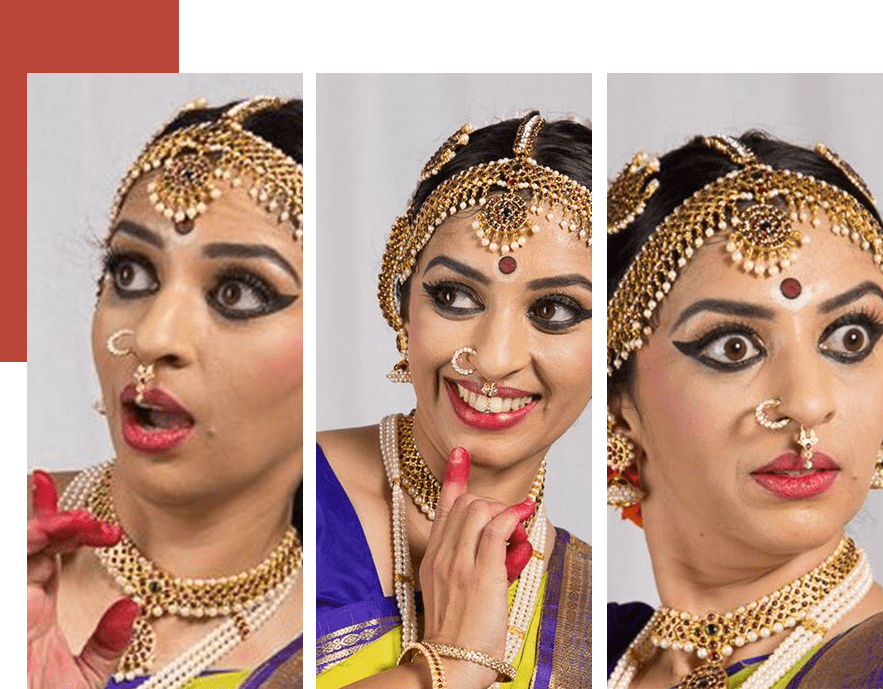
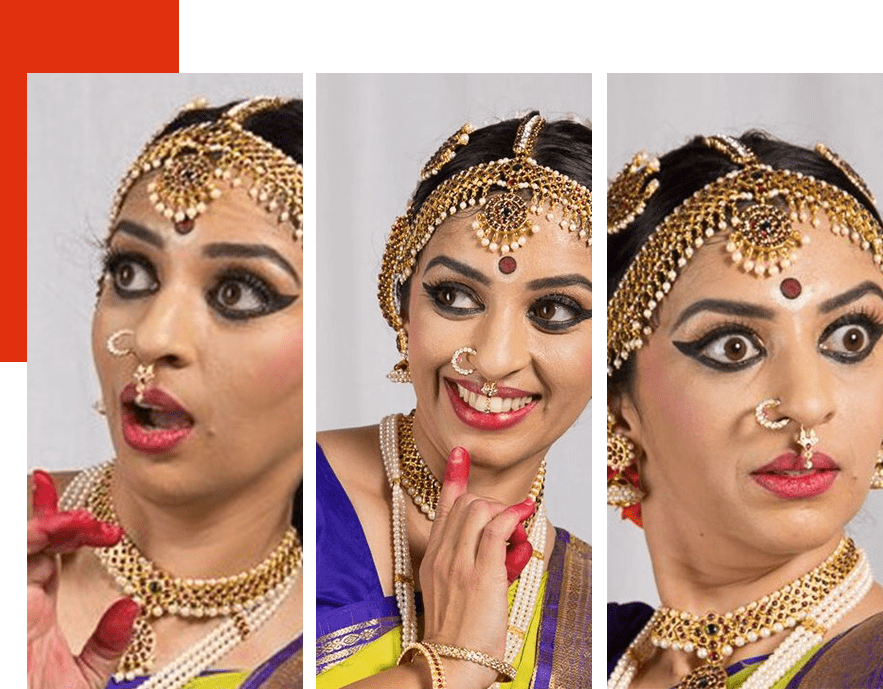
fix: update colors

diff --git a/assets/css/style.css b/assets/css/style.css
@@ -1,1 +1,1 @@
-html{line-height:1.15;-webkit-text-size-adjust:100%}body{margin:0}main{display:block}h1{font-size:2em;margin:0.67em 0}hr{box-sizing:content-box;height:0;overflow:visible}pre{font-family:monospace, monospace;font-size:1em}a{background-color:transparent}abbr[title]{border-bottom:none;text-decoration:underline;text-decoration:underline dotted}b,strong{font-weight:bolder}code,kbd,samp{font-family:monospace, monospace;font-size:1em}small{font-size:80%}sub,sup{font-size:75%;line-height:0;position:relative;vertical-align:baseline}sub{bottom:-0.25em}sup{top:-0.5em}img{border-style:none}button,input,optgroup,select,textarea{font-family:inherit;font-size:100%;line-height:1.15;margin:0}button,input{overflow:visible}button,select{text-transform:none}button,[type="button"],[type="reset"],[type="submit"]{-webkit-appearance:button}button::-moz-focus-inner,[type="button"]::-moz-focus-inner,[type="reset"]::-moz-focus-inner,[type="submit"]::-moz-focus-inner{border-style:none;padding:0}button:-moz-focusring,[type="button"]:-moz-focusring,[type="reset"]:-moz-focusring,[type="submit"]:-moz-focusring{outline:1px dotted ButtonText}fieldset{padding:0.35em 0.75em 0.625em}legend{box-sizing:border-box;color:inherit;display:table;max-width:100%;padding:0;white-space:normal}progress{vertical-align:baseline}textarea{overflow:auto}[type="checkbox"],[type="radio"]{box-sizing:border-box;padding:0}[type="number"]::-webkit-inner-spin-button,[type="number"]::-webkit-outer-spin-button{height:auto}[type="search"]{-webkit-appearance:textfield;outline-offset:-2px}[type="search"]::-webkit-search-decoration{-webkit-appearance:none}::-webkit-file-upload-button{-webkit-appearance:button;font:inherit}details{display:block}summary{display:list-item}template{display:none}[hidden]{display:none}html,body{padding:0;margin:0;-webkit-box-sizing:border-box;-moz-box-sizing:border-box;box-sizing:border-box;-webkit-overflow-scrolling:touch}body{font-family:'Inter', sans-serif;font-size:15px;line-height:1.625;text-rendering:optimizeLegibility;-webkit-font-smoothing:antialiased;-moz-osx-font-smoothing:grayscale;color:#424A5C;background-color:#ffffff;-webkit-text-size-adjust:auto;-moz-text-size-adjust:auto;-ms-text-size-adjust:auto;text-size-adjust:auto}p{margin:30px 0 20px 0}h1,h2,h3,h4,.h1,.h2,.h3,.h4{margin:0}h1,.h1{font-size:3.25rem;line-height:1.2}@media only screen and (max-width: 767px){h1,.h1{font-size:2.15rem}}h2,.h2{font-size:2.15rem;line-height:1.2;color:rgba(0,0,0,0.9)}@media only screen and (max-width: 767px){h2,.h2{font-size:1.5rem}}a{color:#B94638;text-decoration:none}input,select,textarea{display:inline-block;width:100%}img{max-width:100%;vertical-align:middle}.container{max-width:1170px;margin:0 auto}@media only screen and (max-width: 1200px){.container{padding:0 3%}}.center{text-align:center}.red{color:#B94638 !important}.white{color:#ffffff !important}.black{color:rgba(0,0,0,0.9)}.right{text-align:right}.left{text-align:left}.underline{text-decoration:underline}.underline-border{border-bottom:1px solid}.uppercase{text-transform:uppercase}.bold{font-weight:bold}.position-relative{position:relative}.row{display:-webkit-box;display:-webkit-flex;display:-moz-box;display:-ms-flexbox;display:flex;-webkit-box-pack:center;-webkit-justify-content:center;-moz-box-pack:center;-ms-flex-pack:center;justify-content:center}@media only screen and (max-width: 767px){.row{-webkit-box-orient:vertical;-webkit-box-direction:normal;-webkit-flex-direction:column;-moz-box-orient:vertical;-moz-box-direction:normal;-ms-flex-direction:column;flex-direction:column}}.col{-webkit-box-flex:1;-webkit-flex:1;-moz-box-flex:1;-ms-flex:1;flex:1}.white-bg{background-color:#ffffff}.overflow-hidden{overflow:hidden}ul.list-unstyled{padding:0;margin:0;list-style:none}ul.list-unstyled li{padding:0;margin:10px 0}ul.list-inline li{display:inline-block;margin:0 10px}.button{display:inline-block;background-color:#B94638;padding:13px 30px;border-radius:50px;color:#ffffff;font-size:14px;text-transform:uppercase;text-decoration:none;font-weight:bold;opacity:1;transition:all 0.25s ease-in-out}.button:hover,.button:focus{opacity:0.9}.separator .container{border-bottom:1px solid #424A5C;opacity:0.5}nav{background-color:#080808;padding:10px 50px;align-items:center}nav a{color:#ffffff;margin:0;transition:all 0.25s ease-in-out}nav a:hover,nav a:focus{opacity:0.9}.footer-section{padding:20px 0}.footer-section p{font-size:2.5rem;font-weight:lighter;opacity:0.4;line-height:1.1}footer{background-color:#000000;padding:30px 0}footer img{max-width:35px}.index-hero{padding-top:70px;padding-bottom:90px;background-color:#424A5C;background-image:url("../img/artist-bg.jpg");background-position:center;background-repeat:no-repeat;background-size:cover}@media only screen and (max-width: 767px){.index-hero{text-align:center}}.index-hero h1{margin-bottom:15px}.index-hero p{margin:0;font-size:1.3rem;margin-bottom:90px}@media only screen and (max-width: 767px){.index-hero{background-position:90% bottom;background-size:cover;background-color:rgba(0,0,0,0.8);background-blend-mode:overlay}}.index-features{background:url("../img/bottom.png") bottom no-repeat,url("../img/middle.png") center 410px no-repeat;background-size:contain}@media only screen and (max-width: 979px){.index-features{background:url("../img/bottom.png") bottom no-repeat,url("../img/middle.png") center 40% no-repeat;background-size:200%}}@media only screen and (max-width: 767px){.index-features{text-align:center}}.index-features a.button{background-color:#424A5C}.index-features h2{margin-bottom:20px}.index-features p{margin-top:0;margin-bottom:35px;font-size:17px;line-height:1.3;max-width:500px}.index-features .row{align-items:center;padding:70px 0;margin:0 7%}@media only screen and (max-width: 767px){.index-features .row{margin:0}}.index-features .row img{max-width:300px}@media only screen and (max-width: 767px){.index-features .row img{margin-bottom:30px}}.index-features .row .col{flex:3}.index-features .row .col:first-child{flex:2}.index-features .row:nth-child(even) .col{flex:2}.index-features .row:nth-child(even) .col:first-child{flex:3}@media only screen and (max-width: 767px){.index-features .row:nth-child(even) .col{order:1}.index-features .row:nth-child(even) .col:first-child{order:2}}.fans .index-hero{background-image:url("../img/fans-bg.jpg")}@media only screen and (max-width: 979px){.fans .index-hero{background-position:25% center}}@media only screen and (max-width: 767px){.fans .index-hero{background-position:100% bottom;background-color:rgba(0,0,0,0.65)}}.spotlight-hero{min-height:450px;padding:150px 0;background-image:url("../img/saurabh-turakhia.png");background-position:calc(50% + 250px) 110%;background-size:500px;background-repeat:no-repeat}.spotlight-hero h1{color:initial;margin-top:100px;margin-bottom:0px;font-size:2.7em}.spotlight-hero p{margin:0;font-size:1.8em}@media only screen and (max-width: 767px){.spotlight-hero{text-align:center;background-position:center bottom;background-size:500px;padding-top:75px;padding-bottom:400px}.spotlight-hero h1{margin-top:0}}@media only screen and (max-width: 480px){.spotlight-hero{padding-bottom:200px;background-size:350px}}.spotlight-about{padding:125px 0}.spotlight-about .row .col:first-child{flex:2}.spotlight-about .row .col:last-child{flex:3}.spotlight-about img{max-width:650px;width:100%}@media only screen and (max-width: 767px){.spotlight-about{text-align:center}.spotlight-about img{margin-top:50px}}.spotlight-conversation{padding-top:125px;padding-bottom:75px}.spotlight-conversation h2{margin-bottom:80px;max-width:500px}.spotlight-conversation .container>.row{margin:70px 0;align-items:center}.spotlight-conversation .container>.row img{max-width:400px;width:100%}.spotlight-conversation .container>.row h3{color:initial;font-size:1.7em;line-height:1.3}@media only screen and (max-width: 767px){.spotlight-conversation .container>.row h3{font-size:1.3em}}@media only screen and (max-width: 767px){.spotlight-conversation .container>.row .col{order:1}.spotlight-conversation .container>.row .col.center{order:2}.spotlight-conversation .container>.row .col.center img{margin-top:20px;margin-bottom:50px}}@media only screen and (max-width: 767px){.spotlight-conversation{text-align:center}.spotlight-conversation h2{margin-left:auto;margin-right:auto}}.spotlight-work{padding:125px 0}.spotlight-work h2{margin-bottom:30px}.spotlight-work .row{max-width:1000px;margin:auto}.spotlight-work .row .col{position:relative;min-height:300px;background-repeat:no-repeat;background-size:cover;background-position:center;margin:10px}.spotlight-work .row .col:first-child{background-image:url("../img/art-blog.png")}.spotlight-work .row .col:last-child{background-image:url("../img/short-stories-blog.png")}.spotlight-work .row .col span{position:absolute;top:50%;left:50%;color:#fff;font-size:1.4em;transform:translate(-50%)}.spotlight-cta{padding:75px 0}.spotlight-cta p{font-size:1.5em;color:initial;margin-top:0}.spotag section{padding:100px 0}.spotag section.dark{background-color:rgba(0,0,0,0.9)}.spotag section.dark *{color:#fff}.spotag h1{font-size:3.5em;line-height:0.9;font-weight:800}@media only screen and (max-width: 767px){.spotag h1{font-size:2.5em}}.spotag h3{color:rgba(0,0,0,0.9);line-height:1.4;font-size:1.4em}.spotag p{line-height:1.8;margin-top:15px}.spotag .row{align-items:center}@media only screen and (max-width: 767px){.spotag .col.right,.spotag .col.left{text-align:center}}.spotag .spotag-hero{padding:0;overflow:hidden}.spotag .spotag-hero p{margin-top:10px;font-size:1.3em}.spotag .spotag-hero img{transform:scale(1.1);transform-origin:left}@media only screen and (max-width: 767px){.spotag .spotag-hero{padding-top:30px;text-align:center}.spotag .spotag-hero img{transform:translate(40px, -50px)}}@media only screen and (max-width: 767px){.spotag .spotag-about{padding-top:0}}@media only screen and (max-width: 767px){.spotag .spotag-about .row{flex-direction:column-reverse}}.spotag .spotag-about .row>.col:first-child{flex:3}.spotag .spotag-about .row>.col:last-child{flex:2;padding:50px}@media only screen and (max-width: 767px){.spotag .spotag-about .row>.col:last-child{padding:0 0 20px}}.spotag .spotag-conversation{padding-bottom:70px}.spotag .spotag-conversation h2{margin-top:0;margin-bottom:75px}.spotag .spotag-conversation img{max-width:400px;width:100%;object-fit:contain}@media only screen and (max-width: 767px){.spotag .spotag-conversation{padding:50px 0}.spotag .spotag-conversation h2{margin-bottom:50px}.spotag .spotag-conversation img{margin-top:30px}}.spotag .spotag-conv1{padding:0}.spotag .spotag-conv1 img{transform:translateY(-65px);max-width:450px;width:100%;object-fit:contain}@media only screen and (max-width: 767px){.spotag .spotag-conv1{padding:50px 0}.spotag .spotag-conv1 img{padding-top:30px;transform:translateY(0)}.spotag .spotag-conv1 .row{flex-direction:column-reverse}}.spotag .spotag-conv2{padding:0}.spotag .spotag-conv2 img{transform:scale(1.1);max-width:330px;width:100%;object-fit:contain}@media only screen and (max-width: 767px){.spotag .spotag-conv2{padding:50px 0}.spotag .spotag-conv2 img{transform:unset;padding-top:30px}}.spotag .spotag-conv3{padding:30px 0}.spotag .spotag-conv3 img{transform:translateY(80px);max-width:400px;width:100%;object-fit:contain}@media only screen and (max-width: 767px){.spotag .spotag-conv3{padding:50px 0}.spotag .spotag-conv3 .row{flex-direction:column-reverse}.spotag .spotag-conv3 img{padding-top:30px;transform:translateY(0px)}}.spotag .spotag-conv4{padding:0}.spotag .spotag-conv4 img{max-width:400px;transform:translateY(-30px);width:100%;object-fit:contain}@media only screen and (max-width: 767px){.spotag .spotag-conv4{padding:50px 0}.spotag .spotag-conv4 img{padding-top:30px;transform:translateY(0px);max-height:400px}}
+html{line-height:1.15;-webkit-text-size-adjust:100%}body{margin:0}main{display:block}h1{font-size:2em;margin:0.67em 0}hr{box-sizing:content-box;height:0;overflow:visible}pre{font-family:monospace, monospace;font-size:1em}a{background-color:transparent}abbr[title]{border-bottom:none;text-decoration:underline;text-decoration:underline dotted}b,strong{font-weight:bolder}code,kbd,samp{font-family:monospace, monospace;font-size:1em}small{font-size:80%}sub,sup{font-size:75%;line-height:0;position:relative;vertical-align:baseline}sub{bottom:-0.25em}sup{top:-0.5em}img{border-style:none}button,input,optgroup,select,textarea{font-family:inherit;font-size:100%;line-height:1.15;margin:0}button,input{overflow:visible}button,select{text-transform:none}button,[type="button"],[type="reset"],[type="submit"]{-webkit-appearance:button}button::-moz-focus-inner,[type="button"]::-moz-focus-inner,[type="reset"]::-moz-focus-inner,[type="submit"]::-moz-focus-inner{border-style:none;padding:0}button:-moz-focusring,[type="button"]:-moz-focusring,[type="reset"]:-moz-focusring,[type="submit"]:-moz-focusring{outline:1px dotted ButtonText}fieldset{padding:0.35em 0.75em 0.625em}legend{box-sizing:border-box;color:inherit;display:table;max-width:100%;padding:0;white-space:normal}progress{vertical-align:baseline}textarea{overflow:auto}[type="checkbox"],[type="radio"]{box-sizing:border-box;padding:0}[type="number"]::-webkit-inner-spin-button,[type="number"]::-webkit-outer-spin-button{height:auto}[type="search"]{-webkit-appearance:textfield;outline-offset:-2px}[type="search"]::-webkit-search-decoration{-webkit-appearance:none}::-webkit-file-upload-button{-webkit-appearance:button;font:inherit}details{display:block}summary{display:list-item}template{display:none}[hidden]{display:none}html,body{padding:0;margin:0;-webkit-box-sizing:border-box;-moz-box-sizing:border-box;box-sizing:border-box;-webkit-overflow-scrolling:touch}body{font-family:'Inter', sans-serif;font-size:15px;line-height:1.625;text-rendering:optimizeLegibility;-webkit-font-smoothing:antialiased;-moz-osx-font-smoothing:grayscale;color:#283041;background-color:#ffffff;-webkit-text-size-adjust:auto;-moz-text-size-adjust:auto;-ms-text-size-adjust:auto;text-size-adjust:auto}p{margin:30px 0 20px 0}h1,h2,h3,h4,.h1,.h2,.h3,.h4{margin:0}h1,.h1{font-size:3.25rem;line-height:1.2}@media only screen and (max-width: 767px){h1,.h1{font-size:2.15rem}}h2,.h2{font-size:2.15rem;line-height:1.2;color:#292929}@media only screen and (max-width: 767px){h2,.h2{font-size:1.5rem}}a{color:#e0300e;text-decoration:none}input,select,textarea{display:inline-block;width:100%}img{max-width:100%;vertical-align:middle}.container{max-width:1170px;margin:0 auto}@media only screen and (max-width: 1200px){.container{padding:0 3%}}.center{text-align:center}.red{color:#e0300e !important}.white{color:#ffffff !important}.black{color:#292929}.right{text-align:right}.left{text-align:left}.underline{text-decoration:underline}.underline-border{border-bottom:1px solid}.uppercase{text-transform:uppercase}.bold{font-weight:bold}.position-relative{position:relative}.row{display:-webkit-box;display:-webkit-flex;display:-moz-box;display:-ms-flexbox;display:flex;-webkit-box-pack:center;-webkit-justify-content:center;-moz-box-pack:center;-ms-flex-pack:center;justify-content:center}@media only screen and (max-width: 767px){.row{-webkit-box-orient:vertical;-webkit-box-direction:normal;-webkit-flex-direction:column;-moz-box-orient:vertical;-moz-box-direction:normal;-ms-flex-direction:column;flex-direction:column}}.col{-webkit-box-flex:1;-webkit-flex:1;-moz-box-flex:1;-ms-flex:1;flex:1}.white-bg{background-color:#ffffff}.overflow-hidden{overflow:hidden}ul.list-unstyled{padding:0;margin:0;list-style:none}ul.list-unstyled li{padding:0;margin:10px 0}ul.list-inline li{display:inline-block;margin:0 10px}.button{display:inline-block;background-color:#e0300e;padding:13px 30px;border-radius:50px;color:#ffffff;font-size:14px;text-transform:uppercase;text-decoration:none;font-weight:bold;opacity:1;transition:all 0.25s ease-in-out}.button:hover,.button:focus{opacity:0.9}.separator .container{border-bottom:1px solid #283041;opacity:0.5}nav{background-color:#080808;padding:10px 50px;align-items:center}nav a{color:#ffffff;margin:0;transition:all 0.25s ease-in-out}nav a:hover,nav a:focus{opacity:0.9}.footer-section{padding:20px 0}.footer-section p{font-size:2.5rem;font-weight:lighter;opacity:0.4;line-height:1.1}footer{background-color:#000000;padding:30px 0}footer img{max-width:35px}.index-hero{padding-top:70px;padding-bottom:90px;background-color:#283041;background-image:url("../img/artist-bg.jpg");background-position:center;background-repeat:no-repeat;background-size:cover}@media only screen and (max-width: 767px){.index-hero{text-align:center}}.index-hero h1{margin-bottom:15px}.index-hero p{margin:0;font-size:1.3rem;margin-bottom:90px}@media only screen and (max-width: 767px){.index-hero{background-position:90% bottom;background-size:cover;background-color:rgba(0,0,0,0.8);background-blend-mode:overlay}}.index-features{background:url("../img/bottom.png") bottom no-repeat,url("../img/middle.png") center 410px no-repeat;background-size:contain}@media only screen and (max-width: 979px){.index-features{background:url("../img/bottom.png") bottom no-repeat,url("../img/middle.png") center 40% no-repeat;background-size:200%}}@media only screen and (max-width: 767px){.index-features{text-align:center}}.index-features a.button{background-color:#283041}.index-features h2{margin-bottom:20px}.index-features p{margin-top:0;margin-bottom:35px;font-size:17px;line-height:1.3;max-width:500px}.index-features .row{align-items:center;padding:70px 0;margin:0 7%}@media only screen and (max-width: 767px){.index-features .row{margin:0}}.index-features .row img{max-width:300px}@media only screen and (max-width: 767px){.index-features .row img{margin-bottom:30px}}.index-features .row .col{flex:3}.index-features .row .col:first-child{flex:2}.index-features .row:nth-child(even) .col{flex:2}.index-features .row:nth-child(even) .col:first-child{flex:3}@media only screen and (max-width: 767px){.index-features .row:nth-child(even) .col{order:1}.index-features .row:nth-child(even) .col:first-child{order:2}}.fans .index-hero{background-image:url("../img/fans-bg.jpg")}@media only screen and (max-width: 979px){.fans .index-hero{background-position:25% center}}@media only screen and (max-width: 767px){.fans .index-hero{background-position:100% bottom;background-color:rgba(0,0,0,0.65)}}.spotlight-hero{min-height:450px;padding:150px 0;background-image:url("../img/saurabh-turakhia.png");background-position:calc(50% + 250px) 110%;background-size:500px;background-repeat:no-repeat}.spotlight-hero h1{color:initial;margin-top:100px;margin-bottom:0px;font-size:2.7em}.spotlight-hero p{margin:0;font-size:1.8em}@media only screen and (max-width: 767px){.spotlight-hero{text-align:center;background-position:center bottom;background-size:500px;padding-top:75px;padding-bottom:400px}.spotlight-hero h1{margin-top:0}}@media only screen and (max-width: 480px){.spotlight-hero{padding-bottom:200px;background-size:350px}}.spotlight-about{padding:125px 0}.spotlight-about .row .col:first-child{flex:2}.spotlight-about .row .col:last-child{flex:3}.spotlight-about img{max-width:650px;width:100%}@media only screen and (max-width: 767px){.spotlight-about{text-align:center}.spotlight-about img{margin-top:50px}}.spotlight-conversation{padding-top:125px;padding-bottom:75px}.spotlight-conversation h2{margin-bottom:80px;max-width:500px}.spotlight-conversation .container>.row{margin:70px 0;align-items:center}.spotlight-conversation .container>.row img{max-width:400px;width:100%}.spotlight-conversation .container>.row h3{color:initial;font-size:1.7em;line-height:1.3}@media only screen and (max-width: 767px){.spotlight-conversation .container>.row h3{font-size:1.3em}}@media only screen and (max-width: 767px){.spotlight-conversation .container>.row .col{order:1}.spotlight-conversation .container>.row .col.center{order:2}.spotlight-conversation .container>.row .col.center img{margin-top:20px;margin-bottom:50px}}@media only screen and (max-width: 767px){.spotlight-conversation{text-align:center}.spotlight-conversation h2{margin-left:auto;margin-right:auto}}.spotlight-work{padding:125px 0}.spotlight-work h2{margin-bottom:30px}.spotlight-work .row{max-width:1000px;margin:auto}.spotlight-work .row .col{position:relative;min-height:300px;background-repeat:no-repeat;background-size:cover;background-position:center;margin:10px}.spotlight-work .row .col:first-child{background-image:url("../img/art-blog.png")}.spotlight-work .row .col:last-child{background-image:url("../img/short-stories-blog.png")}.spotlight-work .row .col span{position:absolute;top:50%;left:50%;color:#fff;font-size:1.4em;transform:translate(-50%)}.spotlight-cta{padding:75px 0}.spotlight-cta p{font-size:1.5em;color:initial;margin-top:0}.spotag section{padding:100px 0}.spotag section.dark{background-color:#292929}.spotag section.dark *{color:#fff}.spotag h1{font-size:3.5em;line-height:0.9;font-weight:800}@media only screen and (max-width: 767px){.spotag h1{font-size:2.5em}}.spotag h3{color:#292929;line-height:1.4;font-size:1.4em}.spotag p{line-height:1.8;margin-top:15px}.spotag .row{align-items:center}@media only screen and (max-width: 767px){.spotag .col.right,.spotag .col.left{text-align:center}}.spotag .spotag-hero{padding:0;overflow:hidden}.spotag .spotag-hero p{margin-top:10px;font-size:1.3em}.spotag .spotag-hero img{transform:scale(1.1);transform-origin:left}@media only screen and (max-width: 767px){.spotag .spotag-hero{padding-top:30px;text-align:center}.spotag .spotag-hero img{transform:translate(40px, -50px)}}@media only screen and (max-width: 767px){.spotag .spotag-about{padding-top:0}}@media only screen and (max-width: 767px){.spotag .spotag-about .row{flex-direction:column-reverse}}.spotag .spotag-about .row>.col:first-child{flex:3}.spotag .spotag-about .row>.col:last-child{flex:2;padding:50px}@media only screen and (max-width: 767px){.spotag .spotag-about .row>.col:last-child{padding:0 0 20px}}.spotag .spotag-conversation{padding-bottom:70px}.spotag .spotag-conversation h2{margin-top:0;margin-bottom:75px}.spotag .spotag-conversation img{max-width:400px;width:100%;object-fit:contain}@media only screen and (max-width: 767px){.spotag .spotag-conversation{padding:50px 0}.spotag .spotag-conversation h2{margin-bottom:50px}.spotag .spotag-conversation img{margin-top:30px}}.spotag .spotag-conv1{padding:0}.spotag .spotag-conv1 img{transform:translateY(-65px);max-width:450px;width:100%;object-fit:contain}@media only screen and (max-width: 767px){.spotag .spotag-conv1{padding:50px 0}.spotag .spotag-conv1 img{padding-top:30px;transform:translateY(0)}.spotag .spotag-conv1 .row{flex-direction:column-reverse}}.spotag .spotag-conv2{padding:0}.spotag .spotag-conv2 img{transform:scale(1.1);max-width:330px;width:100%;object-fit:contain}@media only screen and (max-width: 767px){.spotag .spotag-conv2{padding:50px 0}.spotag .spotag-conv2 img{transform:unset;padding-top:30px}}.spotag .spotag-conv3{padding:30px 0}.spotag .spotag-conv3 img{transform:translateY(80px);max-width:400px;width:100%;object-fit:contain}@media only screen and (max-width: 767px){.spotag .spotag-conv3{padding:50px 0}.spotag .spotag-conv3 .row{flex-direction:column-reverse}.spotag .spotag-conv3 img{padding-top:30px;transform:translateY(0px)}}.spotag .spotag-conv4{padding:0}.spotag .spotag-conv4 img{max-width:400px;transform:translateY(-30px);width:100%;object-fit:contain}@media only screen and (max-width: 767px){.spotag .spotag-conv4{padding:50px 0}.spotag .spotag-conv4 img{padding-top:30px;transform:translateY(0px);max-height:400px}}

diff --git a/assets/scss/_variables.scss b/assets/scss/_variables.scss
@@ -1,6 +1,7 @@
-$red: #B94638;
-$darkgrey: #424A5C;
-$black: rgba(0, 0, 0, 0.9);
+$red: #e0300e;
+$lightgrey: #e5e4e0;
+$darkgrey: #283041;
+$black: #292929;
 $f: #ffffff;
 
 $transition: all 0.25s ease-in-out;
